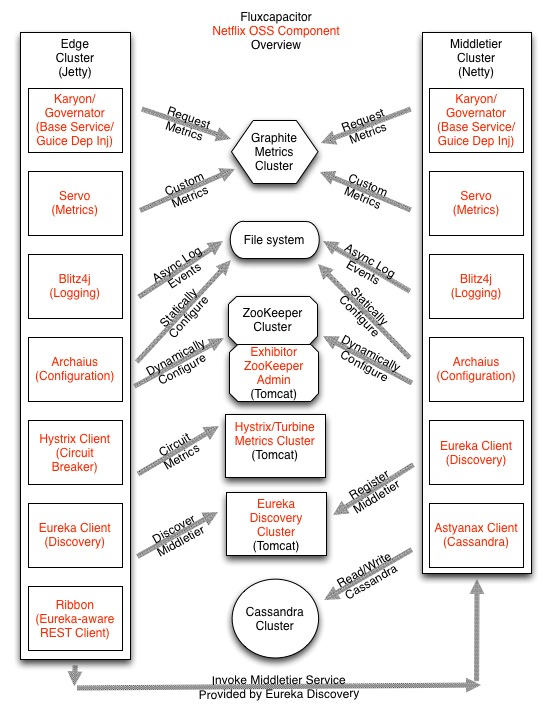
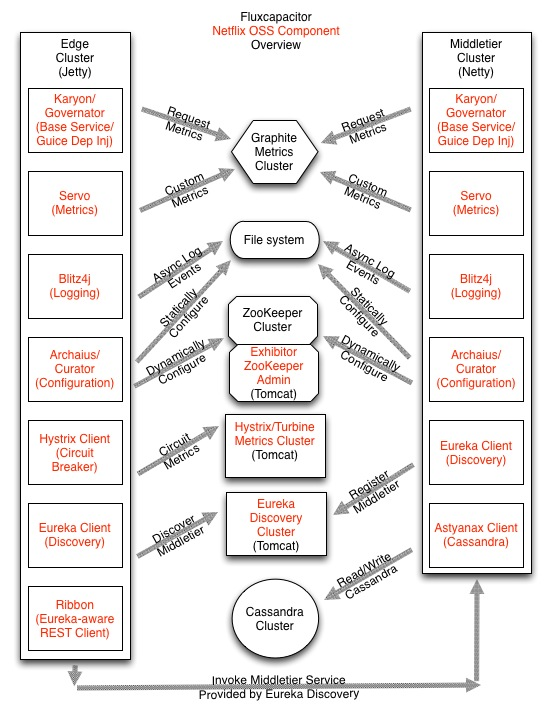
updated docs

Changed region(s): [[0.7713, 0.4951, 0.9564, 0.557], [0.0617, 0.4951, 0.216, 0.557]]

diff --git a/README.md b/README.md
@@ -2,11 +2,11 @@ Overview
 ========
 Flux Capacitor is a Java-based reference app demonstrating the following Netflix Open Source components (in alphabetical order):
 * [archaius] (https://github.com/Netflix/archaius)
-* [astyanax] (https://github.com/Netflix/astyanax) - coming soon
+* [astyanax] (https://github.com/Netflix/astyanax) soon
 * [blitz4j] (https://github.com/Netflix/blitz4j)
-* [curator] (https://github.com/Netflix/curator) - coming soon
+* [curator] (https://github.com/Netflix/curator)
 * [eureka] (https://github.com/Netflix/eureka)
-* [exhibitor] (https://github.com/Netflix/exhibitor) - coming soon
+* [exhibitor] (https://github.com/Netflix/exhibitor)
 * [governator] (https://github.com/Netflix/governator)
 * [hystrix] (https://github.com/Netflix/hystrix)
 * [karyon] (https://github.com/Netflix/karyon)
@@ -24,12 +24,13 @@ This project demonstrates many aspects of a complete distributed, scalable appli
 
 This app can be deployed standalone, in a data center, or in an AWS (Amazon Web Services) environment with just a few configuration changes.
 
-Modules
-=======
-flux-core
------------
-* Shared classes between edge and middletier.
+Architecture Overview
+=====================
+<img src="https://raw.github.com/cfregly/fluxcapacitor/master/docs/images/fluxcapacitor-logo.png">
+<img src="https://raw.github.com/cfregly/fluxcapacitor/master/docs/images/fluxcapacitor-netflixoss-overview.jpg">
 
+Module Overview
+===============
 flux-edge
 -----------
 * Customer-facing edge service.
@@ -37,6 +38,10 @@ flux-edge
 flux-middletier
 -----------------
 * Internal middletier service.
+
+flux-core
+-----------
+* Shared classes between edge and middletier.
 
 Pre-baked AMIs
 ==============
